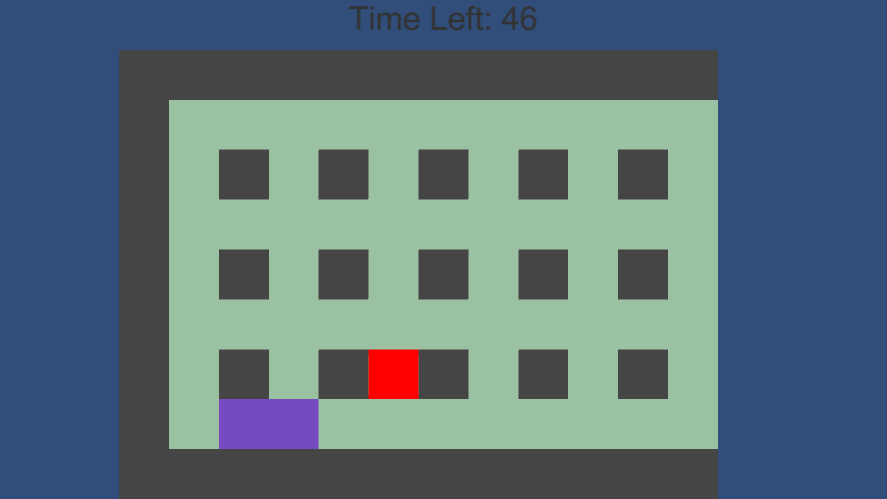
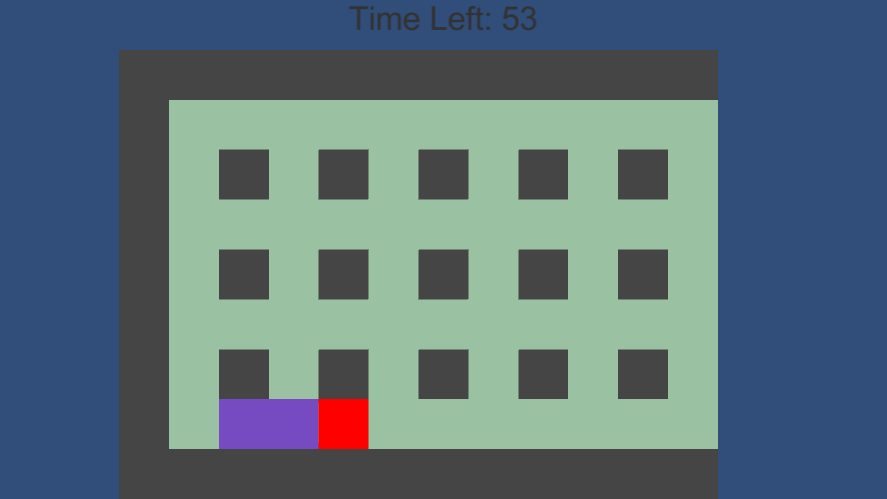
04/23/2017 1:52PM
* Client side work

Changed region(s): [[0.3348, 0.6914, 0.487, 0.9018], [0.5479, 0.0, 0.6088, 0.0601]]

diff --git a/ICS168/Assets/Scripts/ClientConnection.cs b/ICS168/Assets/Scripts/ClientConnection.cs
@@ -5,19 +5,22 @@ using UnityEngine.Networking;
 using System.Runtime.Serialization.Formatters.Binary;
 using System.IO;
 using UnityEngine.UI;
+using System.Net;
+using System.Net.Sockets;
 
 public class ClientConnection : MonoBehaviour {
 
     private class ServerObject {
         public float time;
-        public Texture2D texture2d;
+        public byte[] image;
     }
 
+    [SerializeField] private string serverIP = "";
     [SerializeField]
     private int _bufferSize = 3000;
     [SerializeField] private int _maxConnections = 0;
 
-    private int UDP_ChannelID = -1;
+    //private int UDP_ChannelID = -1;
     private int UDP_ChannelIDFrag = -1;
 
     [SerializeField] private int _socketID = -1;
@@ -29,6 +32,9 @@ public class ClientConnection : MonoBehaviour {
 
     // Use this for initialization
     void Start() {
+
+        Debug.Log(System.Net.IPAddress.Loopback);
+
         NetworkTransport.Init();
         ConnectionConfig connectionConfig = new ConnectionConfig();
         //UDP_ChannelID = connectionConfig.AddChannel(QosType.Unreliable);
@@ -79,16 +85,20 @@ public class ClientConnection : MonoBehaviour {
              * This is where a received message is handled and the game must do something based on the information.
              */
             case NetworkEventType.DataEvent:
+
                 Debug.Log("client: Message received. Message size: " + incomingMessageBuffer.Length);
 
                 Texture2D testTex = new Texture2D(0, 0);
-                Stream stream = new MemoryStream(incomingMessageBuffer);
-                BinaryFormatter formatter = new BinaryFormatter();
+                //Stream stream = new MemoryStream(incomingMessageBuffer);
+                //BinaryFormatter formatter = new BinaryFormatter();
 
-                string jsonMessage = formatter.Deserialize(stream) as string;
-                ServerObject incomingJsonData = JsonUtility.FromJson<ServerObject>(jsonMessage);
+                //string jsonMessage = formatter.Deserialize(stream) as string;
+                //ServerObject incomingJsonData = JsonUtility.FromJson<ServerObject>(jsonMessage);
 
-                testImage.sprite = Sprite.Create(incomingJsonData.texture2d, new Rect(0, 0, Screen.width, Screen.height), Vector2.zero);
+                //testTex.LoadImage(incomingJsonData.image);
+                testTex.LoadImage(incomingMessageBuffer);
+
+                testImage.sprite = Sprite.Create(testTex, new Rect(0, 0, Screen.width, Screen.height), Vector2.zero);
                 break;
             case NetworkEventType.DisconnectEvent:
                 Debug.Log("client: remote client event disconnected");
@@ -98,10 +108,10 @@ public class ClientConnection : MonoBehaviour {
 
     public void Connect() {
         byte error = 0;
-        _connectionID = NetworkTransport.Connect(_socketID, "127.0.0.1", _socketPort, 0, out error);
+        _connectionID = NetworkTransport.Connect(_socketID, serverIP, _socketPort, 0, out error);
         //Debug.Log("Connect to server. ConnectionID: " + _connectionID);
 
-        //StartCoroutine(delay());
+        StartCoroutine(delay());
     }
 
     private IEnumerator delay() {
@@ -112,6 +122,6 @@ public class ClientConnection : MonoBehaviour {
         Stream stream = new MemoryStream(messageBuffer);
         BinaryFormatter formatter = new BinaryFormatter();
         formatter.Serialize(stream, "hello");
-        NetworkTransport.Send(0, _connectionID, UDP_ChannelIDFrag, messageBuffer, _bufferSize, out error);
+        NetworkTransport.Send(_socketID, _connectionID, UDP_ChannelIDFrag, messageBuffer, _bufferSize, out error);
     }
 }
